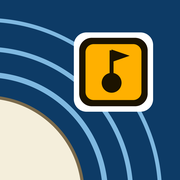
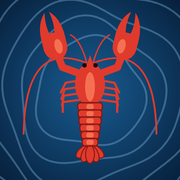
Nytt app-ikon: rød hummer på dybdekart
Hummer sett ovenfra på mørkt hav med dybdekurver, i samme røde farge som
«Hummer her». Erstatter teinesymbolet, som lignet en musikknote.

diff --git a/scripts/lag_ikoner.py b/scripts/lag_ikoner.py
@@ -1,7 +1,7 @@
 """Tegn app-ikonene (PNG) til app/ikoner/.
 
-Motiv: skjærgård med dybdekurver og appens gule teinesymbol med blåse og flagg.
-Tegnes i stor størrelse og skaleres ned, så kantene blir glatte.
+Motiv: rød hummer sett ovenfra på mørkt hav med dybdekurver. Tegnes i stor
+størrelse og skaleres ned, så kantene blir glatte.
 
   ikon-192.png, ikon-512.png  vanlige ikoner (avrundede hjørner)
   ikon-maskable-512.png       Android «adaptive icon»: helt utfylt, motivet innenfor trygg sone
@@ -11,6 +11,7 @@ Tegnes i stor størrelse og skaleres ned, så kantene blir glatte.
 Kjør fra roten av repoet:  python scripts/lag_ikoner.py
 """
 
+import math
 import sys
 
 from PIL import Image, ImageDraw
@@ -19,54 +20,134 @@ from config import ROOT
 
 UT = ROOT / "app" / "ikoner"
 
-HAV = (13, 59, 102)
-KURVE = (127, 184, 224)
-LAND = (244, 238, 219)
-KYST = (122, 106, 76)
-TEINE = (255, 176, 0)
-MORK = (28, 19, 0)
-HVIT = (255, 255, 255)
+HAV_GRUNT = (24, 92, 146)   # midt i ikonet
+HAV_DYPT = (7, 32, 60)      # ut mot kantene
+KURVE = (127, 184, 224, 95)
+HUMMER = (224, 58, 44)
+HUMMER_LYS = (245, 112, 82)
+HUMMER_MORK = (128, 24, 18)
+OYE = (30, 8, 6)
 
 STOR = 2048  # tegnestørrelse før nedskalering
 
 
-def tegn(avrundet: bool, motiv_andel: float) -> Image.Image:
-    """Tegn ikonet. motiv_andel < 1 krymper motivet mot midten (for maskable)."""
-    bilde = Image.new("RGBA", (STOR, STOR), HAV)
-    d = ImageDraw.Draw(bilde)
+def hav() -> Image.Image:
+    """Bakgrunn: lysere (grunnere) i midten, mørkere ut mot kantene, med dybdekurver."""
+    gradient = Image.radial_gradient("L").resize((STOR, STOR), Image.BICUBIC)
+    bilde = Image.composite(Image.new("RGBA", (STOR, STOR), HAV_DYPT),
+                            Image.new("RGBA", (STOR, STOR), HAV_GRUNT), gradient)
 
-    # Koordinater i motivet (0–1) -> piksler
+    # Bølgete, lukkede kurver rundt midten, som dybdekurver i et sjøkart
+    kurver = Image.new("RGBA", (STOR, STOR), (0, 0, 0, 0))
+    d = ImageDraw.Draw(kurver)
+    for i, r in enumerate((0.30, 0.40, 0.50, 0.61, 0.73)):
+        punkter = []
+        for k in range(361):
+            v = math.radians(k)
+            bolge = 1 + 0.07 * math.sin(3 * v + i * 0.9) + 0.04 * math.sin(5 * v + 1.7 + i * 1.3)
+            punkter.append(((0.5 + r * bolge * math.cos(v)) * STOR, (0.52 + r * bolge * math.sin(v)) * STOR))
+        d.line(punkter, fill=KURVE, width=int(0.011 * STOR), joint="curve")
+    return Image.alpha_composite(bilde, kurver)
+
+
+def hummer(motiv_andel: float) -> Image.Image:
+    """Hummeren på gjennomsiktig bakgrunn. motiv_andel < 1 krymper den mot midten."""
+    lag = Image.new("RGBA", (STOR, STOR), (0, 0, 0, 0))
+    d = ImageDraw.Draw(lag)
     marg = (1 - motiv_andel) / 2
+    ned = 0.03  # klørne er tyngre enn halen, så motivet flyttes litt ned for balansens skyld
 
+    # Koordinater i motivet (0–1, y nedover) -> piksler
     def p(x, y):
-        return (marg + x * motiv_andel) * STOR, (marg + y * motiv_andel) * STOR
+        return (marg + x * motiv_andel) * STOR, (marg + (y + ned) * motiv_andel) * STOR
 
-    def boks(cx, cy, r):
-        (x0, y0), (x1, y1) = p(cx - r, cy - r), p(cx + r, cy + r)
-        return (x0, y0, x1, y1)
+    def b(bredde):
+        return max(1, int(bredde * motiv_andel * STOR))
 
-    def bredde(b):
-        return max(1, int(b * motiv_andel * STOR))
+    def ellipse(cx, cy, rx, ry, vinkel=0.0, n=90):
+        """Punkter rundt en ellipse som er rotert vinkel grader (positiv = med klokka)."""
+        v = math.radians(vinkel)
+        ut = []
+        for k in range(n):
+            t = 2 * math.pi * k / n
+            x, y = rx * math.cos(t), ry * math.sin(t)
+            ut.append(p(cx + x * math.cos(v) - y * math.sin(v), cy + x * math.sin(v) + y * math.cos(v)))
+        return ut
 
-    # Land nede til venstre, med dybdekurver rundt
-    senter = (-0.08, 1.08)
-    for r, b in ((0.98, 0.022), (0.82, 0.026), (0.68, 0.03)):
-        d.arc(boks(*senter, r), 260, 370, fill=KURVE, width=bredde(b))
-    d.ellipse(boks(*senter, 0.55), fill=LAND, outline=KYST, width=bredde(0.018))
+    def bue(a, kontroll, c, n=40):
+        """Kvadratisk Bézier-kurve fra a til c."""
+        return [p((1 - t) ** 2 * a[0] + 2 * (1 - t) * t * kontroll[0] + t * t * c[0],
+                  (1 - t) ** 2 * a[1] + 2 * (1 - t) * t * kontroll[1] + t * t * c[1])
+                for t in (k / n for k in range(n + 1))]
 
-    # Teinesymbolet: gul firkant med mørk kant og hvit ring
-    cx, cy, s = 0.63, 0.40, 0.19
-    for utvid, farge in ((0.03, HVIT), (0.0, MORK)):
-        (x0, y0), (x1, y1) = p(cx - s - utvid, cy - s - utvid), p(cx + s + utvid, cy + s + utvid)
-        d.rounded_rectangle((x0, y0, x1, y1), radius=int(0.07 * motiv_andel * STOR), fill=farge)
-    (x0, y0), (x1, y1) = p(cx - s + 0.035, cy - s + 0.035), p(cx + s - 0.035, cy + s - 0.035)
-    d.rounded_rectangle((x0, y0, x1, y1), radius=int(0.045 * motiv_andel * STOR), fill=TEINE)
+    def strek(punkter, bredde, farge=HUMMER):
+        d.line(punkter, fill=farge, width=b(bredde), joint="curve")
+        r = b(bredde) / 2
+        for x, y in (punkter[0], punkter[-1]):
+            d.ellipse((x - r, y - r, x + r, y + r), fill=farge)
 
-    # Blåse med stang og flagg inni teinesymbolet
-    d.line((p(cx - 0.01, cy + 0.02), p(cx - 0.01, cy - 0.12)), fill=MORK, width=bredde(0.022))
-    d.polygon((p(cx - 0.01, cy - 0.125), p(cx + 0.09, cy - 0.09), p(cx - 0.01, cy - 0.055)), fill=MORK)
-    d.ellipse(boks(cx - 0.01, cy + 0.06, 0.055), fill=MORK)
+    for side in (-1, 1):
+        # Antenner: lange buer ut til sidene og bakover langs kroppen
+        strek(bue((0.5 + side * 0.03, 0.30), (0.5 + side * 0.40, 0.16), (0.5 + side * 0.41, 0.74)), 0.011)
+        strek(bue((0.5 + side * 0.02, 0.30), (0.5 + side * 0.06, 0.16), (0.5 + side * 0.12, 0.13)), 0.009)
 
+        # Fire par gangbein, skrått bakover
+        for i in range(4):
+            y = 0.41 + i * 0.04
+            kne = (0.5 + side * (0.15 + i * 0.006), y + 0.015)
+            fot = (0.5 + side * (0.18 - i * 0.004), y + 0.075)
+            strek([p(0.5 + side * 0.06, y), p(*kne), p(*fot)], 0.014)
+
+        # Klo-arm: fra skulderen ut og opp til håndleddet
+        skulder, albue, handledd = (0.5 + side * 0.06, 0.37), (0.5 + side * 0.17, 0.33), (0.5 + side * 0.2, 0.25)
+        strek([p(*skulder), p(*albue), p(*handledd)], 0.046)
+
+        # Klo: bred håndflate og to fingre som bøyer seg mot hverandre, med åpning imellom.
+        # Klo-koordinater: u på tvers, w langs kloa mot tuppen, origo midt i håndflaten.
+        kx, ky, v = 0.5 + side * 0.215, 0.2, math.radians(side * 14)
+
+        def i_klo(u, w):
+            return (kx + u * math.cos(v) + w * math.sin(v), ky + u * math.sin(v) - w * math.cos(v))
+
+        def klopunkter(a, kontroll, c):
+            return bue(i_klo(*a), i_klo(*kontroll), i_klo(*c), n=30)
+
+        d.polygon(ellipse(kx, ky, 0.074, 0.085, math.degrees(v)), fill=HUMMER)
+        for f in (-1, 1):  # de to fingrene
+            ytterkant = klopunkter((f * 0.072, 0.0), (f * 0.085, 0.15), (f * 0.014, 0.215))
+            innerkant = klopunkter((f * 0.014, 0.215), (f * 0.034, 0.12), (f * 0.007, 0.06))
+            d.polygon(ytterkant + innerkant, fill=HUMMER)
+        d.polygon(ellipse(*i_klo(side * -0.02, -0.005), 0.024, 0.045, math.degrees(v)), fill=HUMMER_LYS)
+
+    # Halevifta: fem fliker som sprer seg ut fra enden av halen (tegnes først, under halen)
+    feste = (0.5, 0.815)
+    for vinkel in (-50, 50, -25, 25, 0):
+        a = math.radians(vinkel)
+        cx, cy = feste[0] + math.sin(a) * 0.052, feste[1] + math.cos(a) * 0.052
+        d.polygon(ellipse(cx, cy, 0.03, 0.058, -vinkel), fill=HUMMER, outline=HUMMER_MORK, width=b(0.006))
+
+    # Ryggskjold med pigg (rostrum) foran
+    d.polygon([p(0.5, 0.255), p(0.476, 0.33), p(0.524, 0.33)], fill=HUMMER)
+    d.polygon(ellipse(0.5, 0.435, 0.092, 0.13), fill=HUMMER)
+    d.polygon(ellipse(0.5, 0.45, 0.03, 0.09), fill=HUMMER_LYS)
+    for side in (-1, 1):
+        x, y = p(0.5 + side * 0.034, 0.318)
+        r = b(0.014)
+        d.ellipse((x - r, y - r, x + r, y + r), fill=OYE)
+
+    # Halen: seks ledd som smalner av, tegnet ovenfra og ned så hvert ledd overlapper det forrige
+    for i, bredde in enumerate((0.160, 0.154, 0.144, 0.132, 0.118, 0.104)):
+        topp = 0.545 + i * 0.044
+        (x0, y0), (x1, y1) = p(0.5 - bredde / 2, topp), p(0.5 + bredde / 2, topp + 0.054)
+        d.rounded_rectangle((x0, y0, x1, y1), radius=b(0.022), fill=HUMMER,
+                            outline=HUMMER_MORK, width=b(0.008))
+        (x0, y0), (x1, y1) = p(0.5 - 0.022, topp + 0.012), p(0.5 + 0.022, topp + 0.042)
+        d.rounded_rectangle((x0, y0, x1, y1), radius=b(0.012), fill=HUMMER_LYS)
+    return lag
+
+
+def tegn(avrundet: bool, motiv_andel: float) -> Image.Image:
+    bilde = Image.alpha_composite(hav(), hummer(motiv_andel))
     if avrundet:  # klipp alt til avrundede hjørner til slutt
         maske = Image.new("L", bilde.size, 0)
         ImageDraw.Draw(maske).rounded_rectangle((0, 0, STOR - 1, STOR - 1), radius=int(STOR * 0.22), fill=255)
@@ -77,7 +158,7 @@ def tegn(avrundet: bool, motiv_andel: float) -> Image.Image:
 def lagre(bilde: Image.Image, navn: str, storrelse: int, gjennomsiktig: bool = True) -> None:
     liten = bilde.resize((storrelse, storrelse), Image.LANCZOS)
     if not gjennomsiktig:
-        bakgrunn = Image.new("RGB", liten.size, HAV)
+        bakgrunn = Image.new("RGB", liten.size, HAV_DYPT)
         bakgrunn.paste(liten, mask=liten.split()[3])
         liten = bakgrunn
     liten.save(UT / navn, optimize=True)
@@ -86,15 +167,15 @@ def lagre(bilde: Image.Image, navn: str, storrelse: int, gjennomsiktig: bool = T
 
 def main() -> int:
     UT.mkdir(parents=True, exist_ok=True)
-    vanlig = tegn(avrundet=True, motiv_andel=1.0)
-    maskable = tegn(avrundet=False, motiv_andel=0.74)  # Android kan klippe bort kantene
-    full = tegn(avrundet=False, motiv_andel=1.0)       # iPhone runder hjørnene selv
+    vanlig = tegn(avrundet=True, motiv_andel=0.9)
+    maskable = tegn(avrundet=False, motiv_andel=0.72)  # Android kan klippe bort kantene
+    full = tegn(avrundet=False, motiv_andel=0.9)       # iPhone runder hjørnene selv
     print("Lager ikoner i app/ikoner/:")
     lagre(vanlig, "ikon-192.png", 192)
     lagre(vanlig, "ikon-512.png", 512)
     lagre(maskable, "ikon-maskable-512.png", 512, gjennomsiktig=False)
     lagre(full, "apple-touch-icon.png", 180, gjennomsiktig=False)
-    lagre(vanlig, "favicon-32.png", 32)
+    lagre(tegn(avrundet=True, motiv_andel=1.0), "favicon-32.png", 32)
     return 0
 
 
